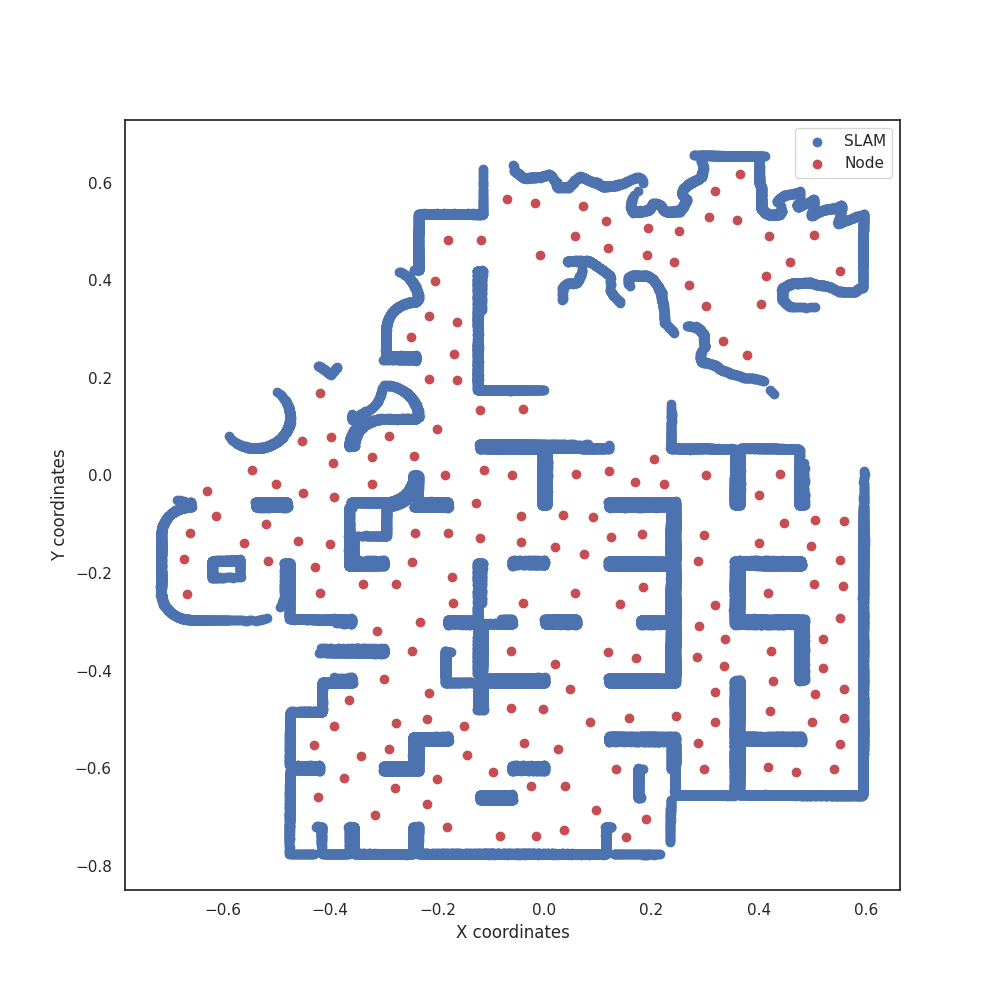
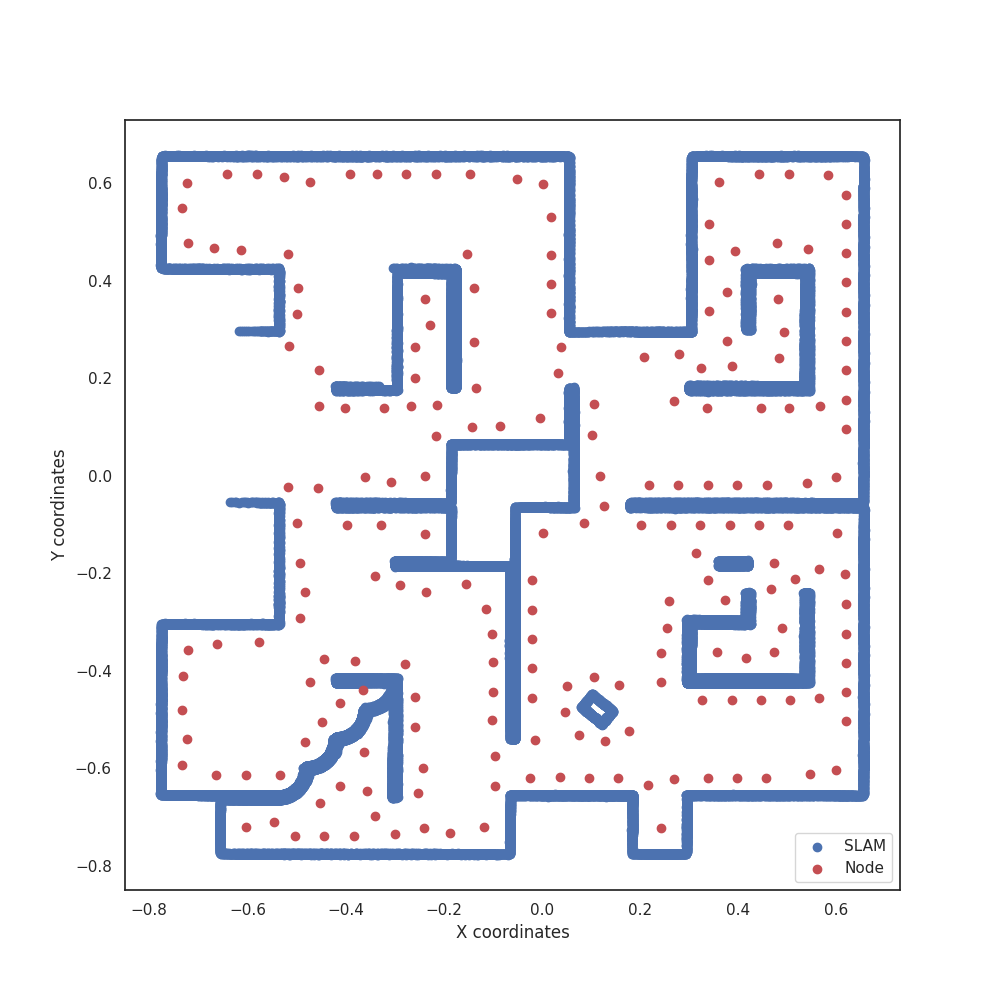
Primeiro Protótipo da DFS

diff --git a/src/slam_navigation.py b/src/slam_navigation.py
@@ -2,8 +2,10 @@ from slam import slam
 from types_and_constants import ROBOT_RADIUS, THRESHOLD_SLAM
 from figure import fig
 import numpy as np
+from Node import Node
 
 contador = 0
+
 
 def slam_snapshot(gps_position: list, side_angle_to_distance_mapper: dict[float, float], robot_orientation: float) -> None:
     slam.take_snapshot(gps_position, side_angle_to_distance_mapper, robot_orientation)
@@ -14,15 +16,7 @@ def get_slam_list_atual() -> list:
 def get_slam_list() -> list:
     return slam.get_list()
 
-def calculate_min_node(nodeX: list, nodeY: list, robot_position: list) -> list:
-    # Utilizando a lista de nodes, calcula o node mais próximo do robo
-    distance = float("inf")
-    for nx, ny in zip(nodeX, nodeY):
-        if (nx - robot_position[0]) ** 2 + (ny - robot_position[1]) ** 2 < distance:
-            distance = (nx - robot_position[0]) ** 2 + (ny - robot_position[1]) ** 2
-            min_node = [nx, ny]
-    return min_node
-    
+
 
 class Navigation:
     def __init__(self) -> None:
@@ -30,45 +24,97 @@ class Navigation:
         self.list_y_total = []
 
         self.existing_nodes = set()
+        self.current_node = None
+        self.stack_visited_node = []
+
+    def set_current_node(self, gps_position : list) -> None:
+        condicao = False
+        for node in self.existing_nodes:
+            if node.get_node_position() == gps_position: # Não é o igual-igual pois tem que corrigir a imprecisão- METODO DO CIRUCLO DE RAIO
+                self.current_node = node
+                condicao = True
+        if not condicao : self.current_node = Node(gps_position)
+        
+        
+
     
-    def get_node(self, listx: list, listy: list, robot_position: list, ) -> None:
+    def get_node(self, listx: list, listy: list, robot_position: list) -> None:
         x0, y0 = robot_position
         radius_offset = ROBOT_RADIUS + THRESHOLD_SLAM
-        contador2 =0
         for lx, ly in zip(listx, listy):
             
             theta = np.arctan2(y0 - ly, lx - x0)
             px = lx - radius_offset * np.cos(theta)
             py = ly + radius_offset * np.sin(theta)
             
-            contador2+=1
             # Adiciona somente se não estiver muito próximo de outro node e não sobreponha pontos existentes
             if all(
                 (px - nx) ** 2 + (py - ny) ** 2 > radius_offset ** 2 for nx, ny in self.existing_nodes
             ) and all(
                 (px - wx) ** 2 + (py - wy) ** 2 > ROBOT_RADIUS ** 2 for wx, wy in zip(listx, listy)
-            ):
-                self.existing_nodes.add((px, py))
-        #print(f"Contador2 : {contador2}")
+            ):  
+                new_node = Node([px, py])
+                self.existing_nodes.add(new_node)
+                self.current_node.set_node_adjacentes(new_node)
+        
+            for node in self.existing_nodes:
+                nx = node.get_node_position()[0]
+                ny = node.get_node_position()[1]
+                if ((px - nx) ** 2 + (py - ny) ** 2 < radius_offset ** 2):
+                    self.current_node.set_node_adjacentes(node)
+            
+
+
+
 
     def navigate(self, gps_position: list, side_angle_to_distance_mapper: dict[float, float], robot_orientation: float) -> None:
         global contador
-        slam_snapshot(gps_position, side_angle_to_distance_mapper, robot_orientation)
-        new_x, new_y = get_slam_list_atual()
+        slam_snapshot(gps_position, side_angle_to_distance_mapper, robot_orientation) # Tirando O Snapshot
+        new_x, new_y = get_slam_list_atual() # Pegar os pontos do snapshot
+        
+        self.get_node(new_x, new_y, gps_position) # Pegar os nodes
 
-        self.get_node(new_x, new_y, gps_position)
-        self.list_x_total.extend(new_x)
+        #Adicionando os pontos do snapshot na lista total (SLAM)
+        self.list_x_total.extend(new_x) 
         self.list_y_total.extend(new_y)
         
 
         if contador % 25 == 0:
-            #Quero que plote os node_x e node_y 
-            print(f"LIST_X : {len(self.list_x_total)}, LIST_Y : {len(self.list_y_total)}, EXISTING_NODES : {len(self.existing_nodes)}") 
+            #print(f"LIST_X : {len(self.list_x_total)}, LIST_Y : {len(self.list_y_total)}, EXISTING_NODES : {len(self.existing_nodes)}") 
             fig.multi_plott(self.list_x_total, self.list_y_total, "SLAM", 'b', [node[0] for node in self.existing_nodes], [node[1] for node in self.existing_nodes], "Node", 'r')
             pass
-
-        
-
+      
         contador += 1
 
+    def dfs(self, gps_position: list, side_angle_to_distance_mapper: dict[float, float], robot_orientation: float) -> list:
+        '''  
+        Primeiro de tudo o robo tira um snapshot, achando os pontos e nodes atuais. Depois disso, ele armazena esses pontos em uma classe Ponto 
+        com atributos de sua coordenada, seu pai, se é visitado ou visto e seus filhos. Após isso, ele calcula ve qual o node mais proximo do robo 
+        a partir da lista de nodes nodeX e nodeY, porém esse node tem que ser transversavel, ou seja, ele deve ter todos os filhos adjacentes visitados. Para isso, o robo tenta andar até o node mais próximo, e se ele conseguir, ele retorna o node, caso contrário, ele
+        tenta o próximo node mais próximo. Ele vai fazendo até ele não conseguir ver mais nodes vistos transversaveis, aí o robo começa fazer a recursão, 
+        no qual a cada recursão ele verifica novamente se é transversável até o ponto visto mais próximo (Tente ter uma lista de nodes visitados, e nodes vistos
+        (a serem visitados))
+        '''
+        self.current_node = self.set_current_node(gps_position)
+        self.current_node.visit_node()
+        self.stack_visited_node.append(self.current_node)
+
+        self.navigate(gps_position, side_angle_to_distance_mapper, robot_orientation)
+        min_node = self.current_node.calculate_min_node(self.current_node)
+        if min_node!= None : 
+            #go_to_min_node
+            pass
+        else : 
+            self.stack_visited_node.pop()
+            #go to stack_visited_node[-1]
+            pass
+        pass
+
+
+
+
+
+
+        
+        
 navigation = Navigation()

diff --git a/src/Node.py b/src/Node.py
@@ -1,0 +1,39 @@
+from __future__ import annotations
+
+class Node:
+    
+    def __init__(self, position : list) -> None:
+        self.nodes_adjacentes = []
+        self.node_position = position
+        self.node_visited = False
+        self.node_father = None
+
+
+    def set_node_adjacentes(self, node : Node) -> None:
+        self.nodes_adjacentes.append(node)
+
+    def set_node_position(self, position : list) -> None:
+        self.node_position = position
+    
+    def get_node_position(self) -> list:
+        return self.node_position
+    
+    def visit_node(self) -> None:
+        self.node_visited = True
+    
+    def set_node_father(self, father : Node) -> None:
+        self.node_father = father
+
+    def calculate_min_node(self, node : Node) -> Node:
+        find_min_node = False
+        for n in self.nodes_adjacentes:
+            min_distance = float("inf")
+            if n.node_visited:
+                distance = ((n.node_position[0] - node.node_position[0])**2 + (n.node_position[1] - node.node_position[1])**2)**0.5
+                if distance < min_distance:
+                    min_distance = distance
+                    min_node = n
+                    find_min_node = True
+        if not find_min_node : min_node = None
+        return min_node
+        

diff --git a/src/types_and_constants.py b/src/types_and_constants.py
@@ -44,7 +44,7 @@ MAX_WALL_DISTANCE = 0.030
 EXPECTED_WALL_DISTANCE = 0.0198
 WALL_COLLISION_DISTANCE = 0.002
 DIST_BEFORE_HOLE = 0.02
-THRESHOLD_SLAM = ROBOT_RADIUS/2
+THRESHOLD_SLAM = ROBOT_RADIUS/1.5
 
 ORTOGONAL_MAX_DIST_IF_WALL = TILE_SIZE / 2
 DIAGONAL_MAX_DIST_IF_WALL1 = (

diff --git a/src/devices/gps.py b/src/devices/gps.py
@@ -34,3 +34,5 @@ class GPS(Device):
         posicaoX_atual = positions[0]
         posicaoY_atual = positions[2]
         return [posicaoX_atual, posicaoY_atual]
+    
+
